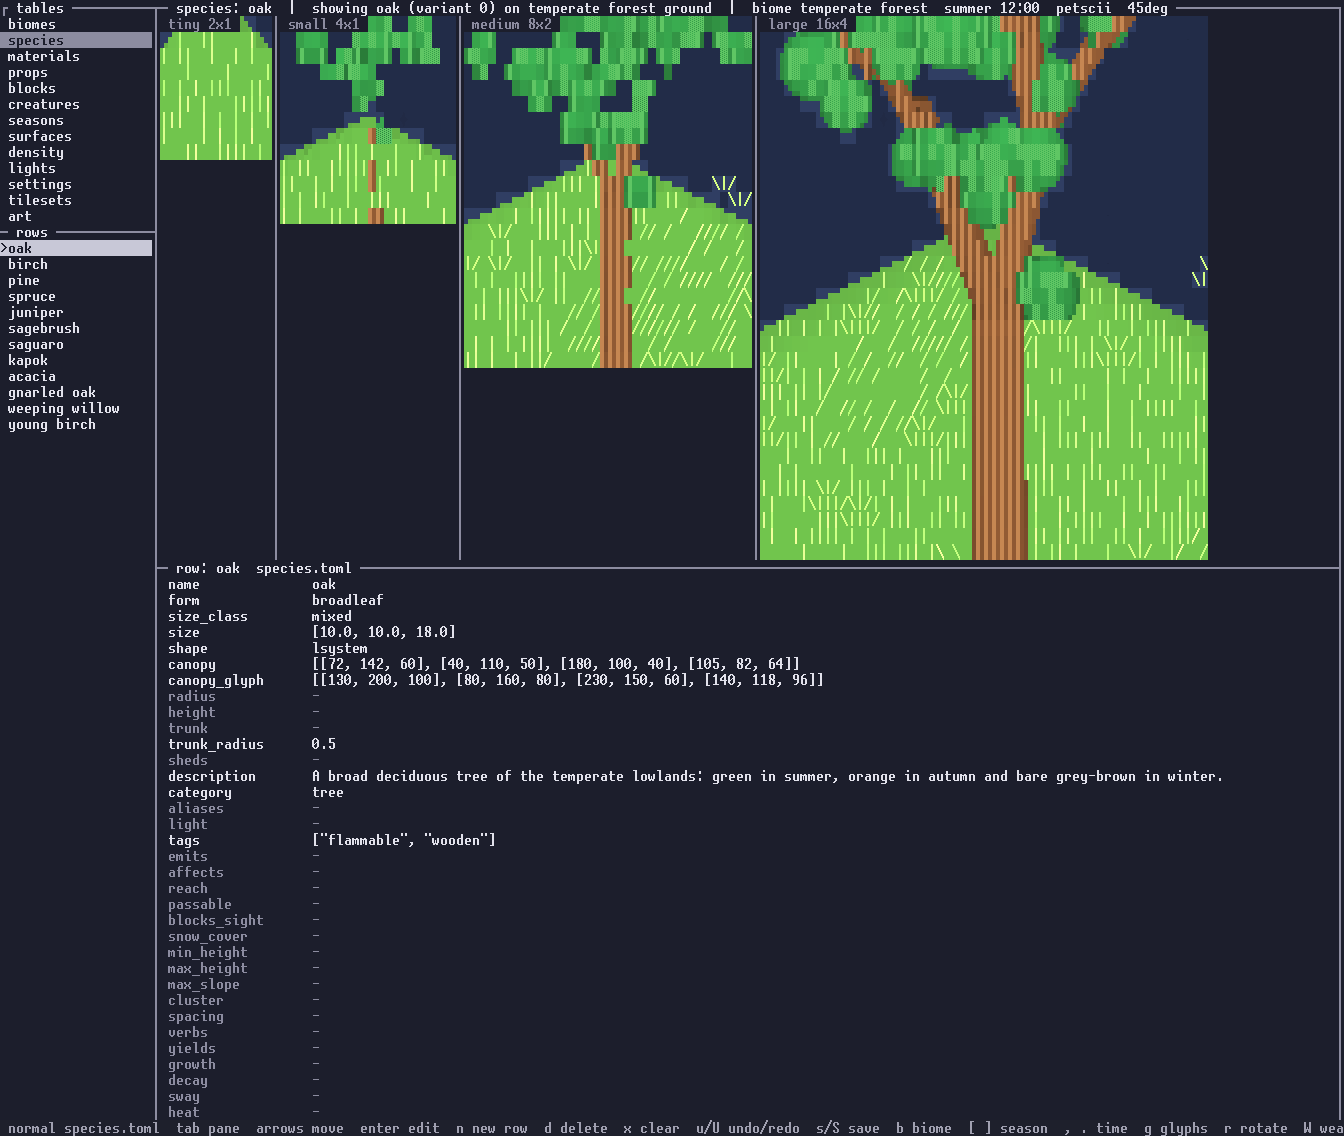
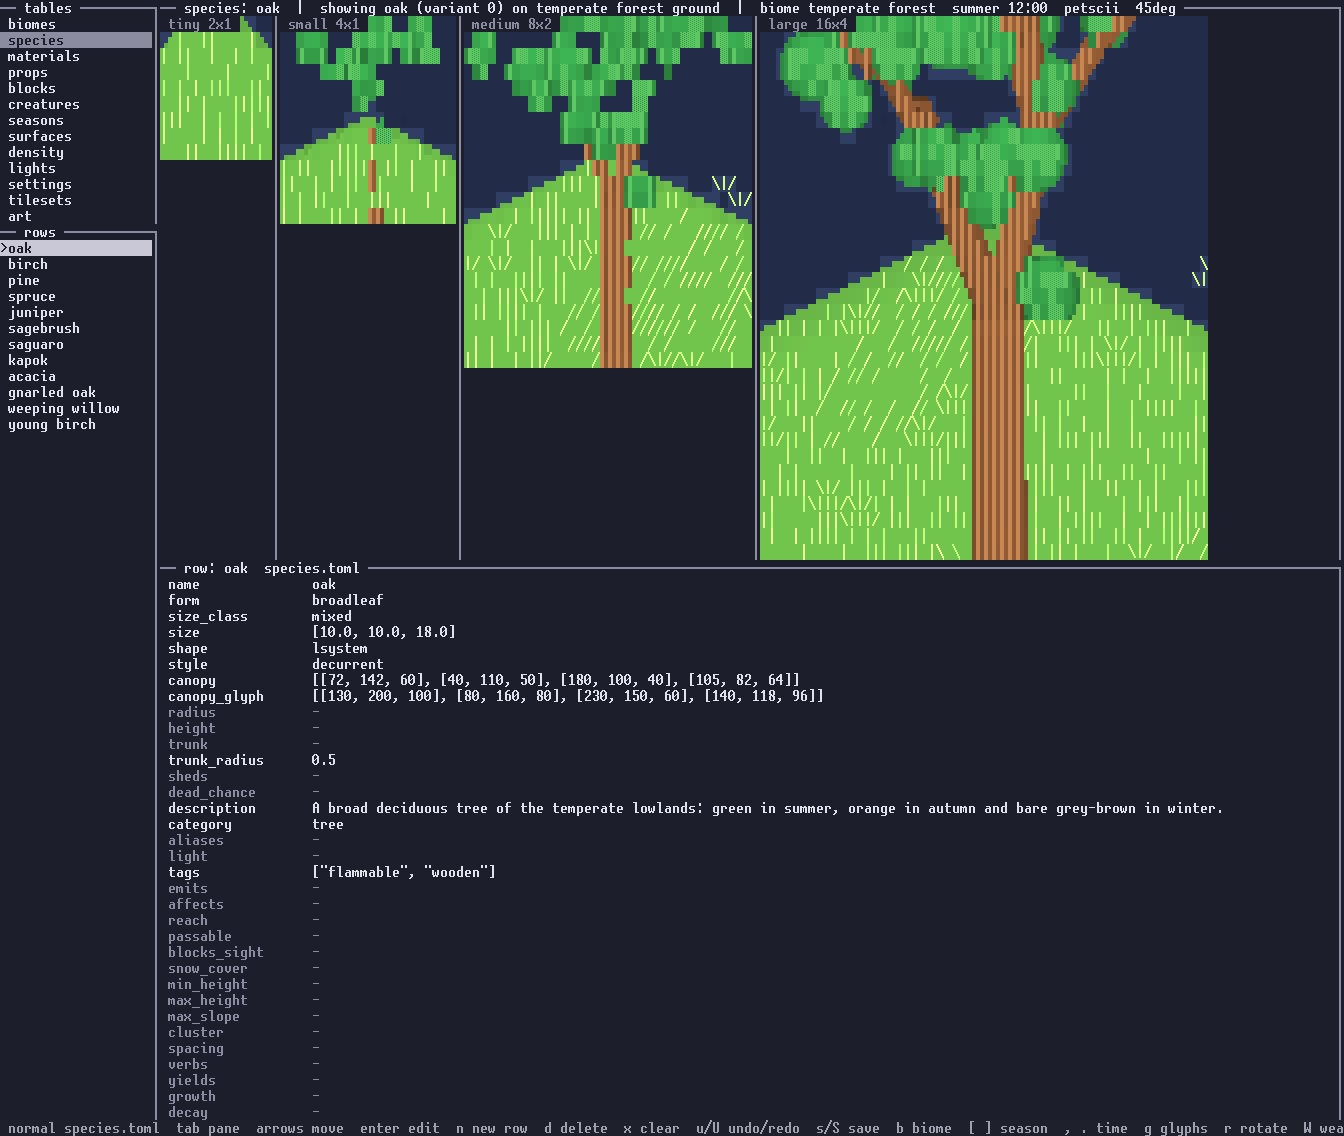
Say in the docs that the editor's panes are frames
frames.md ended on "the editor's panes are not frames"; they are now, so
that section becomes how the editor's screen is built out of rows, and
the row table gains the margin, the top_right border and the min_size
show rule. assets-and-editor.md gains editor-ui.toml in the file list and
the new 120 by 45 threshold in the panes section. The editor screenshot
is re-rendered: the same screen a title column further along, and with
the species fields as they now stand.

diff --git a/docs/frames.md b/docs/frames.md
@@ -1,10 +1,11 @@
 # Frames
 
-Everything drawn over the scene is a frame. A frame is a row in
-`assets/ui.toml` saying where it goes, how it is framed, when it shows and
-which key toggles it, plus a `Content` in `src/ui.rs` that draws into it
-and, when focused, takes the keys. Adding a pane means adding a row and a
-content kind, not a draw call. The decision is
+Everything drawn over the scene is a frame, and so is every pane of the
+asset editor. A frame is a row in `assets/ui.toml` — or, for the editor,
+`assets/editor-ui.toml` — saying where it goes, how it is framed and when
+it shows, plus a content in `src/ui.rs` or `src/editor/ui.rs` that draws
+into it and, when focused, takes the keys. Adding a pane means adding a
+row and a content kind, not a draw call. The decision is
 [ADR-005](adr/ADR-005-overlay-frames.md); this page is the system as it
 stands.
 
@@ -39,29 +40,39 @@ size = { cols = 0.22, rows = 0.6, min_cols = 24, min_rows = 8 }
 | `content` | a kind the code supplies; the frame's name by default |
 | `anchor` | `top_left top top_right left centre right bottom_left bottom bottom_right full` |
 | `size` | `cols` and `rows` each a whole number of cells, a fraction of the screen, `"fill"` or `"auto"`; `min_cols` and `min_rows` drop the frame when it will not fit |
-| `border` | `none`, `line`, `double`, `chrome` |
+| `margin` | `left`, `top`, `right`, `bottom`: cells kept clear at the screen's edges before the anchor places it; zero everywhere unless a row says otherwise |
+| `border` | `none`, `line`, `double`, `chrome`, `top_right` |
 | `background` | `none`, `opaque`, or `{ tint = 0.0..1.0 }` |
 | `z` | draw order, lowest first |
 | `priority` | which frame survives when two overlap |
-| `show` | `always`, `zoomed_out`, `zoomed_in`, `on_key`, `never`, or `{ min_columns = N }` |
+| `show` | `always`, `zoomed_out`, `zoomed_in`, `on_key`, `never`, `{ min_columns = N }`, or `{ min_size = { columns = N, rows = N } }` |
 | `key` | the toggle key, bound to `Toggle(name)` in `src/input.rs` |
 
 The loader refuses a row whose content is not a kind the code supplies or
-whose key it cannot parse, and a test keeps `ui.toml`'s key and the
-binding table in step in both directions.
+whose key it cannot parse. A test keeps `ui.toml`'s keys and the binding
+table in step in both directions, and another keeps `editor-ui.toml`'s
+content kinds and `src/editor/ui.rs` in step, also in both directions.
+
+`top_right` is the tiled pane's border: a line along the top, which carries
+the title, and one down the right, leaving the other two edges to the
+neighbours that draw them. With margins it lets a screen of panes meet
+without sharing a cell or doubling a line, which is what the editor's
+screen is.
 
 ## Layout
 
 `Layout::resolve` runs on every frame, which is cheap for a list of ten
 rectangles and needs no resize hook.
 
-Each frame is dropped if it is closed or its show rule fails. Its border
-costs one cell a side, and that comes out of an `auto` size rather than
-being added to it, so a content that asks for a 48 by 13 interior gets a
-50 by 15 frame. Each axis then resolves to cells, a fraction of the
-screen, the whole axis, or what the content asked for, and is clamped to
-the screen and to the minimum. A frame smaller than its minimum is
-dropped.
+Each frame is dropped if it is closed or its show rule fails. It is then
+sized and placed inside the screen less its margins, which is the whole
+screen for every frame of the game. Its border costs a cell on each side
+it draws, and that comes out of an `auto` size rather than being added to
+it, so a content that asks for a 48 by 13 interior gets a 50 by 15 frame
+with a line border and a 49 by 14 one with a `top_right` border. Each axis
+then resolves to cells, a fraction of the area, the whole axis, or what
+the content asked for, and is clamped to the area and to the minimum. A
+frame smaller than its minimum is dropped.
 
 The anchor places the rectangle; `centre` and `full` both centre it.
 Overlaps then resolve by priority: a frame is hidden only when a frame of
@@ -198,9 +209,33 @@ A list draws each item as a title row and, where there is one, an indented
 detail row; the selected title is inverted and the window keeps the cursor
 centred.
 
-## What is not a frame
+## The editor's panes
 
-The editor's panes are not frames. `ADR-005` planned for them, but
-`src/editor/ui.rs` still has its own rectangle and layout code, and the
-nine content kinds are the game's only. That step of the ADR's plan is
-outstanding.
+![editor](screenshots/editor.png)
+
+The editor's screen is eight rows of `assets/editor-ui.toml` over the
+content kinds `src/editor/ui.rs` supplies: `tables`, `rows`, `strip`,
+`pane`, `form`, `grid`, `picker` and `status`. They draw from the `Editor`
+rather than from the scene, so they are `Pane<Editor>` rather than
+`Content`: `frame.rs` places them, draws their chrome and reads their
+titles, and the editor keeps its own focus and key handling.
+
+The screen tiles rather than floats. The lists hold a twenty-cell left
+column, the preview and the form take what is right of it with a left
+margin, the lists and the form leave the last row to the status line with
+a bottom margin, and every pane has a `top_right` border, so the panes
+meet exactly and cover the screen between them. Nothing in the code says
+where a pane goes.
+
+The 80 by 25 collapse is two rows and their rules. `strip` draws the four
+sprite tiers side by side and shows only on a screen of at least 120 by
+45 — the tallest tier with a form under it. `pane` draws the one tier `t`
+picked and is always shown, but ranks below `strip` and is opaque, so
+wherever the strip fits the pane is hidden by priority and wherever it
+does not the pane is all there is. That one pane drops to a tier whose
+subject stands whole in it, which is the rule
+[assets-and-editor.md](assets-and-editor.md) describes.
+
+Which of `form`, `grid` and `picker` holds the bottom right is the
+editor's mode, through `Pane::open`. They share a rectangle, so only one
+is ever open.

diff --git a/docs/assets-and-editor.md b/docs/assets-and-editor.md
@@ -26,6 +26,7 @@ strip drawn by the game's own renderer.
 | `surfaces.toml` | `[[season]]`, `[[surface]]`, `[density]` | four seasonal palettes, four surface texture rules, grass and cattail densities |
 | `lights.toml` | `[[light]]` | colour, radius, intensity, falloff, flicker |
 | `ui.toml` | `[[frame]]` | overlay frames (see [frames.md](frames.md)) |
+| `editor-ui.toml` | `[[frame]]` | the editor's own panes, the same row shape |
 
 Beside them, `materials.toml` holds wall and roof colours, `settings.toml`
 the settings rows, `tilesets/*.toml` the glyph roles and sprite vocabulary
@@ -57,9 +58,9 @@ so an exported directory is a faithful starting point; the editor's own
 `--export DIR` writes the set and then opens on it. Tables are parsed in a
 fixed order and resolved in dependency order — materials, lights, habits,
 species, biomes, props, blocks, creatures, surfaces, settings, frames,
-tilesets — so a reference is always resolved against something already
-built. A `.toml` under `assets/` that is neither a table nor a tileset is
-rejected rather than ignored.
+editor frames, tilesets — so a reference is always resolved against
+something already built. A `.toml` under `assets/` that is neither a table
+nor a tileset is rejected rather than ignored.
 
 An error names the file, the line for a parse error, and the table row:
 
@@ -80,8 +81,9 @@ surfaces, in order; all eleven settings keys must exist and every value of
 the `glyphs` row must name a tileset; a material called `stone` must
 exist, because buildings on rock and near the snow line are built of it; a
 prop called `campfire` with a light must exist, because the `f` key places
-it; `player` must be the first creature; and every frame in `ui.toml` must
-name a content kind the code supplies and a key that can be parsed.
+it; `player` must be the first creature; and every frame in `ui.toml` and
+`editor-ui.toml` must name a content kind that file's code supplies and a
+key that can be parsed.
 
 Geometry has its own rules: block levels rise and stay within
 `max_levels`, footprints are smallest-to-largest and no wider than a
@@ -123,20 +125,25 @@ message, since the embedded set has nowhere to be written back to.
 
 ### Panes
 
-Three focusable panes cycle with `Tab`: **tables**, **rows** and the
-**form**. The left column is twenty cells wide and holds the table list
-over the row list. To its right is the preview strip — one pane per sprite
-tier, `tiny 2x1`, `small 4x1`, `medium 8x2` and `large 16x4` — drawing a
-flat fixture in the chosen biome and season with the selected row at its
-centre: a tree, a block pattern, four of a prop, a creature, a lit light
-at night, a house in a material. Under the strip is the row form, or the
-art grid, then a status line. Below 120 by 50 the strip shows one tier and
-`t` cycles it; the floor is 80 by 25, as for the game. Thirteen tables are
-listed: `biomes species materials props blocks creatures seasons surfaces
-density lights settings tilesets art`, where `seasons`, `surfaces` and
-`density` are the three sections of `surfaces.toml`. `ui.toml` and
-`tree_styles.toml` load and save so the set round-trips, but have no pane;
-edit them by hand.
+Every pane is a frame: a row in `editor-ui.toml` over a content kind in
+`src/editor/ui.rs`, placed by the same layout as the game's overlays
+([frames.md](frames.md)). Three of them take the cursor and cycle with
+`Tab`: **tables**, **rows** and the **form**. The left column is twenty
+cells wide and holds the table list over the row list. To its right is the
+preview strip — one pane per sprite tier, `tiny 2x1`, `small 4x1`,
+`medium 8x2` and `large 16x4` — drawing a flat fixture in the chosen biome
+and season with the selected row at its centre: a tree, a block pattern,
+four of a prop, a creature, a lit light at night, a house in a material.
+Under the strip is the row form, or the art grid, then a status line. The
+strip's row asks for a screen of at least 120 by 45, which is its tallest
+tier with a form under it; on anything smaller it gives way to the
+one-tier pane behind it, which `t` cycles. The floor is 80 by 25, as for
+the game. Thirteen tables are listed: `biomes species materials props
+blocks creatures seasons surfaces density lights settings tilesets art`,
+where `seasons`, `surfaces` and `density` are the three sections of
+`surfaces.toml`. `ui.toml`,
+`editor-ui.toml` and `tree_styles.toml` load and save so the set
+round-trips, but have no pane; edit them by hand.
 
 In the strip the four tiers stand side by side, so the close panes are
 close-ups by design: a full-grown tree overflows `large 16x4` there and
